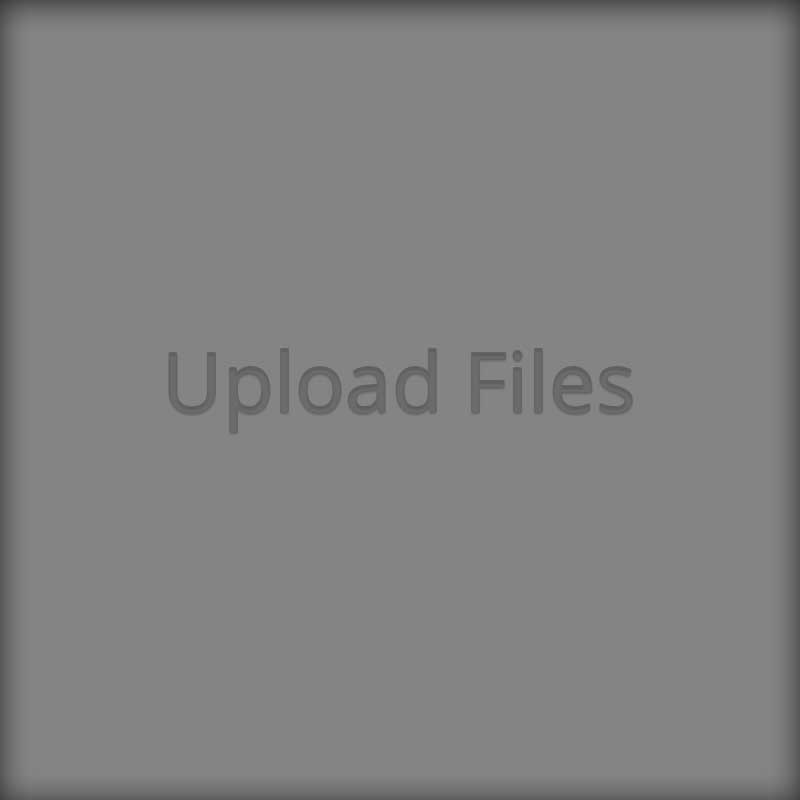
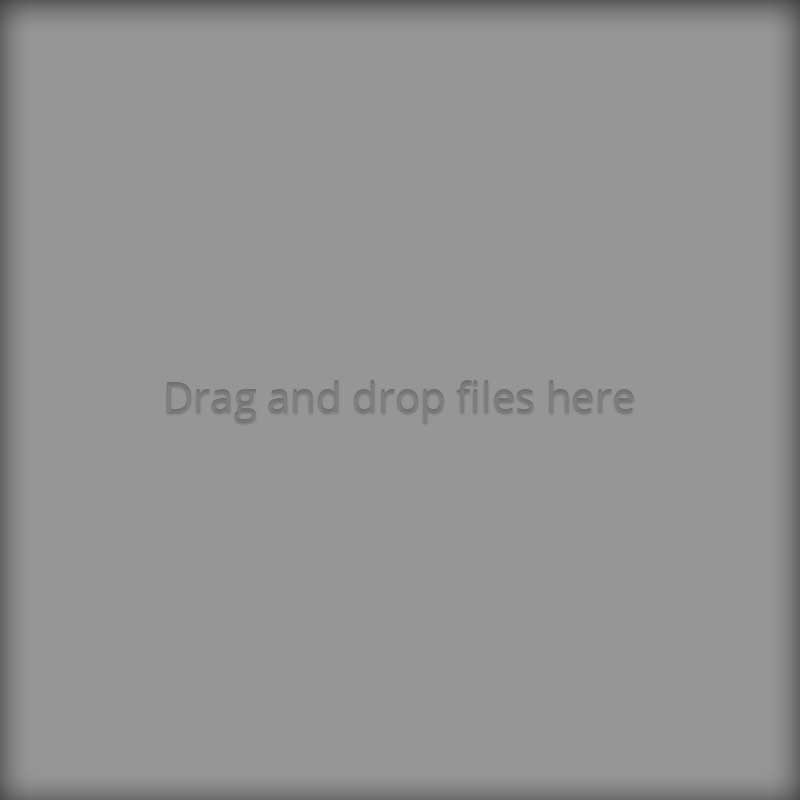
updated uploadPlaceholder image.

Changed region(s): [[0.1875, 0.4375, 0.7812, 0.5625]]

diff --git a/frontend/src/ui/posts/postForm.js b/frontend/src/ui/posts/postForm.js
@@ -1,0 +1,126 @@
+import React from 'react'
+import {useDispatch} from "react-redux";
+import * as Yup from 'yup'
+import {Form, Formik} from "formik";
+import {FormControl, InputGroup} from "react-bootstrap";
+
+export function PostForm() {
+    const dispatch = useDispatch()
+
+    const validator = Yup.object().shape({
+        locationForm: Yup.string()
+            .required('A location is required')
+            .max(64, 'Location must be 64 characters or less.'),
+        titleForm: Yup.string()
+            .required('A title is required')
+            .max(64, 'Title must be 64 characters or less.'),
+        descriptionForm: Yup.string()
+            .max('Description must be 576 characters or less.')
+    })
+
+    const handleSubmit = (values, {resetForm, setStatus}) => {
+        httpConfig.post('/apis/location', values).then(reply => {
+            const {message, type, status} = reply
+            if (status === 200) {
+                resetForm()
+                dispatch(fetchLocation())
+            }
+            setStatus({message, type})
+        })
+    }
+    const location = {
+        location: '',
+        title: '',
+        description: ''
+    }
+
+    return (
+        <>
+            <Formik
+                initialValues={location}
+                onSubmit={handleSubmit}
+                validationSchema={validator}
+            >
+
+            </Formik>
+        </>
+    )
+}
+
+function PostFormContent(props) {
+    const {
+        status,
+        values,
+        errors,
+        touched,
+        dirty,
+        isSubmitting,
+        handleChange,
+        handleBlur,
+        handleSubmit,
+        handleReset
+    } = props
+
+    return (
+        <>
+            <Form onSubmit={handleSubmit}>
+                <Form.Group>
+                    <InputGroup>
+                        <FormControl
+                            onChange={handleChange}
+                            onBlur={handleBlur}
+                            placeholder='Location'
+                            values={values.locationForm} //
+                            name='locationForm'
+                        />
+                    </InputGroup>
+                    {errors.locationForm && touched.locationForm &&
+                        <>
+                            <div className="alert alert-danger">
+                                {errors.locationForm} //
+                            </div>
+                        </>
+                    }
+                </Form.Group>
+                <Form.Group>
+                    <InputGroup>
+                        <FormControl
+                            onChange={handleChange}
+                            onBlur={handleBlur}
+                            placeholder='submitter' //
+                            values={values.locationSubmitter} //
+                            name='locationSubmitter'
+                        />
+                    </InputGroup>
+                    {errors.locationSubmitter && touched.locationSubmitter &&
+                        <>
+                            <div className="alert alert-danger">
+                                {errors.locationSubmitter}
+                            </div>
+                        </>}
+                </Form.Group>
+                <Form.Group>
+                    <InputGroup>
+                        <FormControl
+                            as='textarea'
+                            placeholder='Meow meow meow goes here'
+                            onChange={handleChange}
+                            onBlur={handleBlur}
+                            value={values.descriptionForm}
+                            name='description'
+                        />
+                    </InputGroup>
+                    {errors.descriptionForm && touched.descriptionForm &&
+                        <>
+                            <div className="alert alert-danger">
+                                {errors.descriptionForm}
+                            </div>
+                        </>
+                    }
+                </Form.Group>
+                <FormDebugger {...props}/>
+            </Form>
+            {status && <div className={status.type}>{status.message}</div>}
+        </>
+    )
+}

diff --git a/frontend/src/ui/Upload.js b/frontend/src/ui/Upload.js
@@ -22,7 +22,7 @@ export const Upload = () => {
                                 <img className="img-fluid uploadPlaceholder" src={uploadPlaceholder}
                                      alt="upload placeholder"></img>
                             </div>
-                            <form className="formContainer bg-primary rounded-3" action="./apis/" method="post" noValidate>
+                            <form className="formContainer bg-primary rounded-3 w-100" action="./apis/" method="post" noValidate>
                                 <Row className="m-3">
                                     <Col lg={3} md={5} sm={6}>
                                         <label htmlFor="locationForm" className="labelItem"/>
